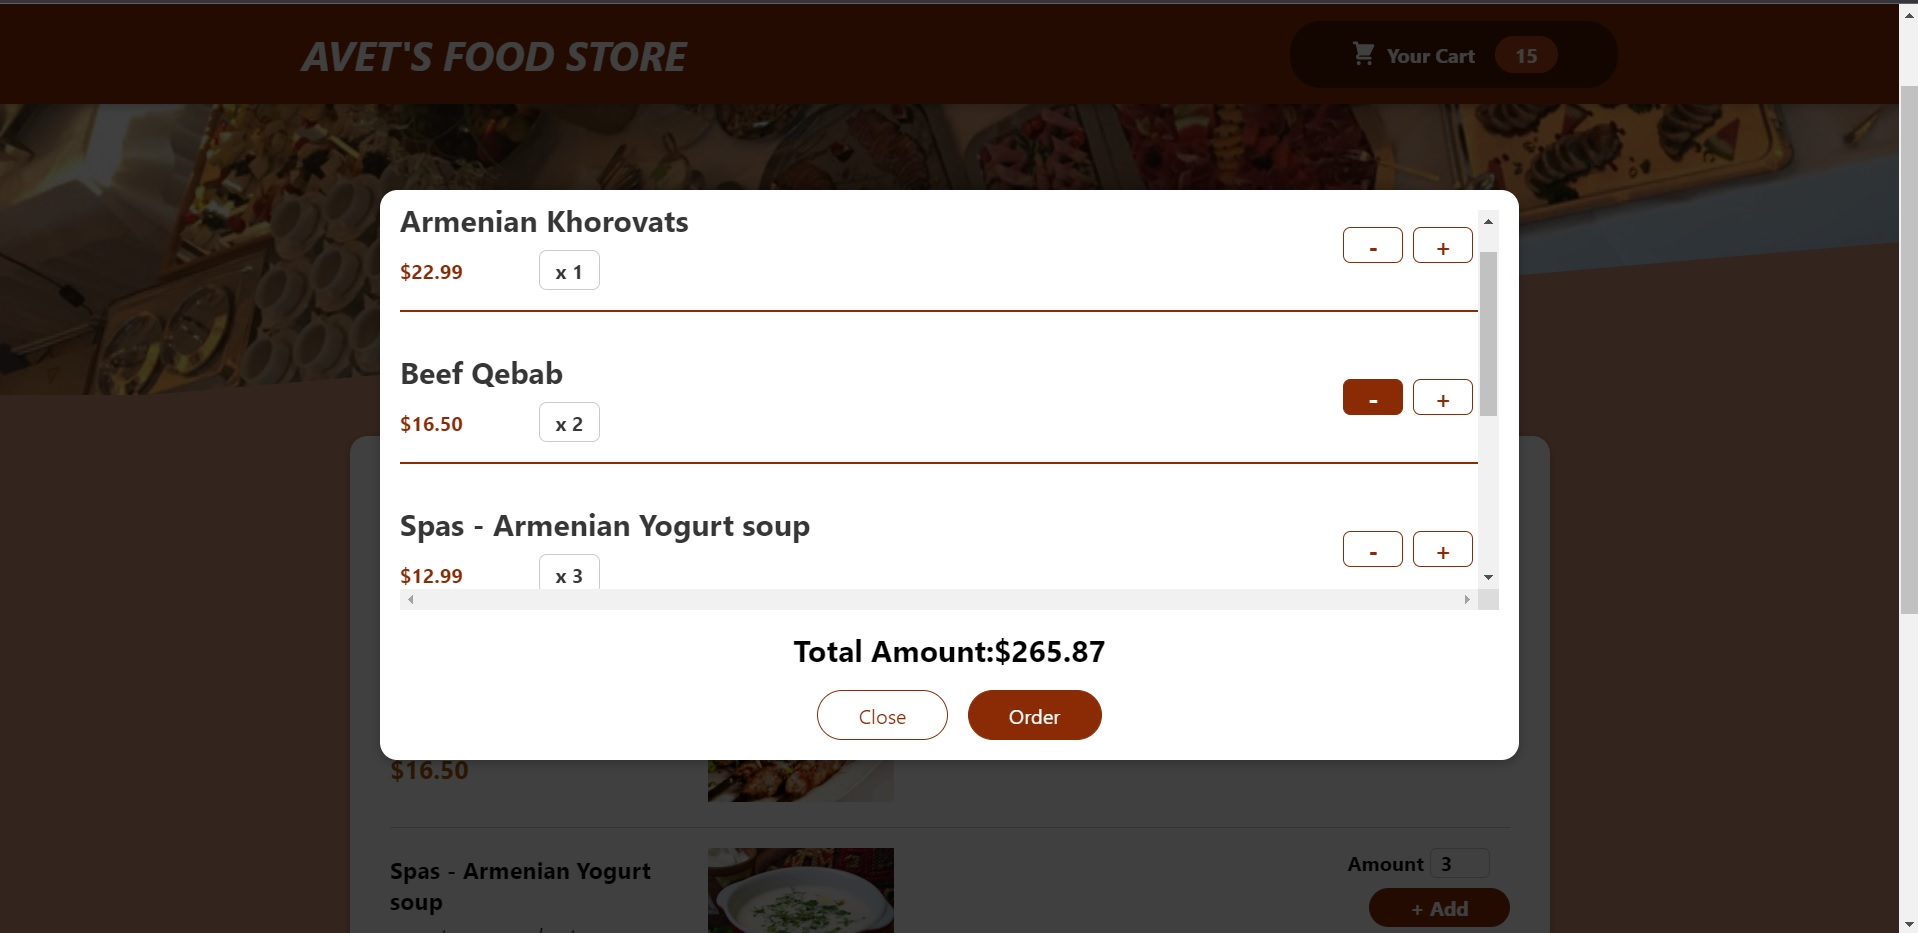
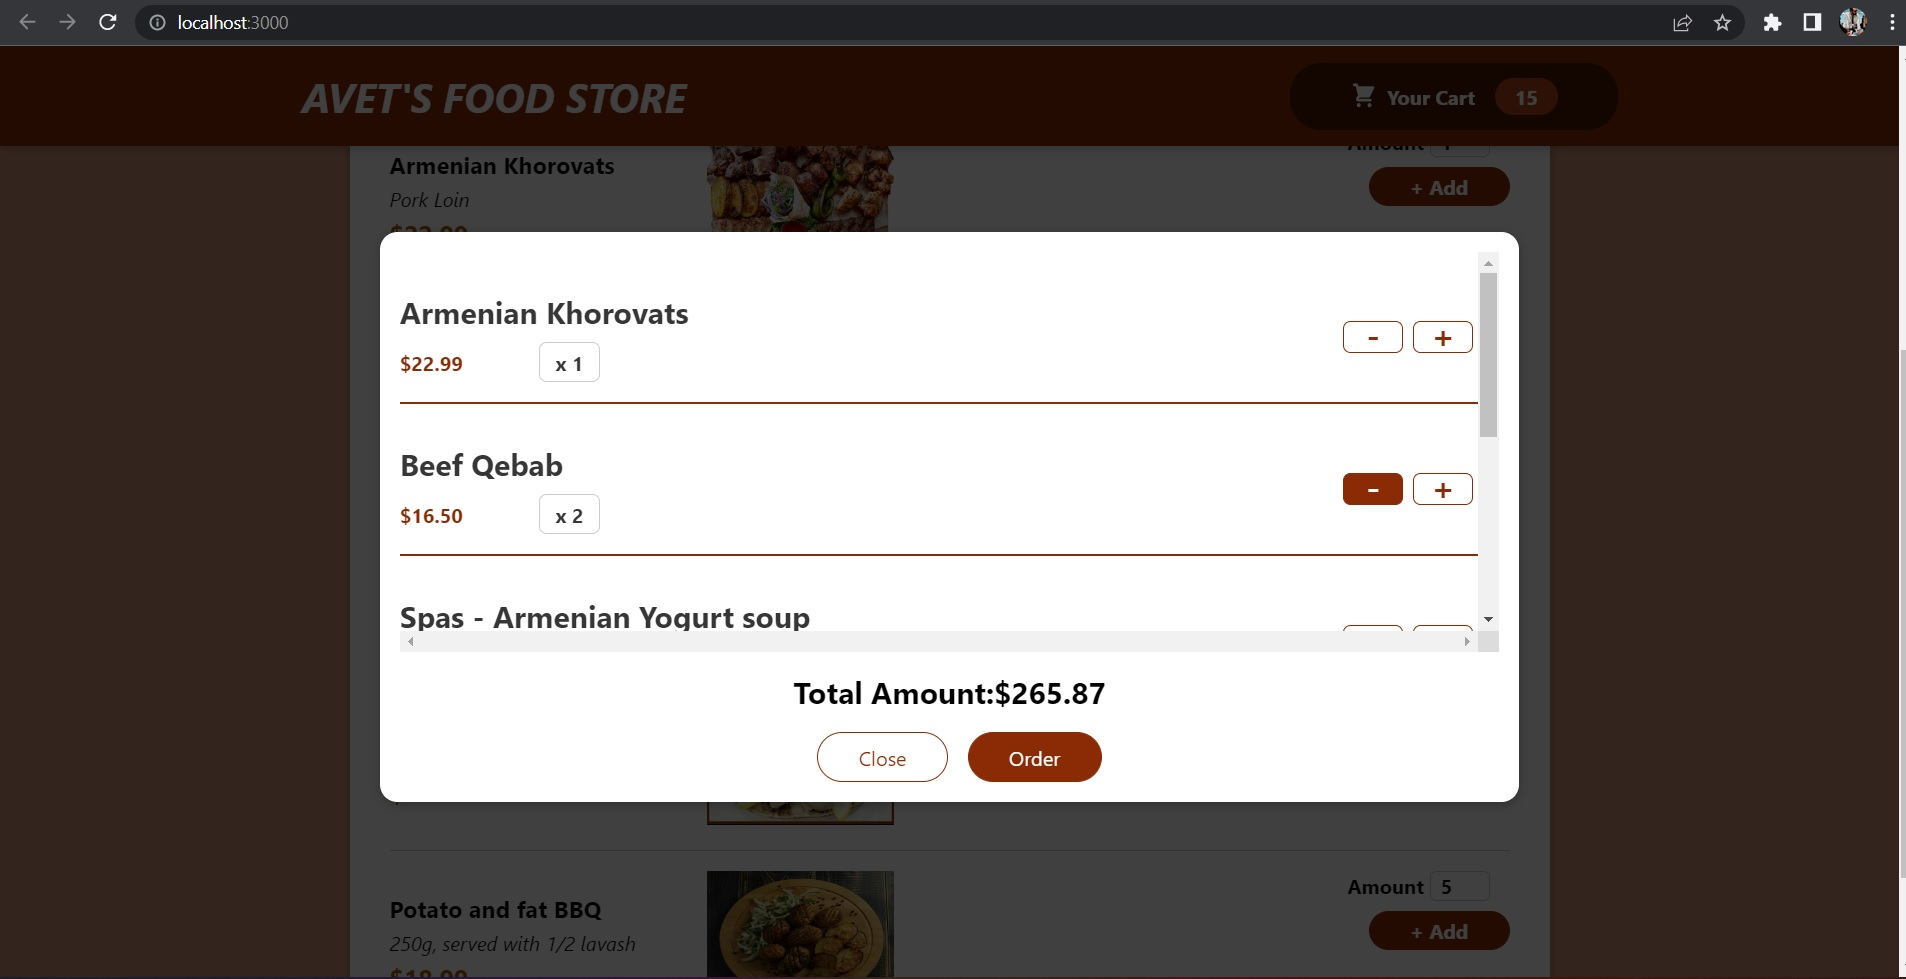
fix: update some styles

diff --git a/src/Components/Cart/CartItem.css b/src/Components/Cart/CartItem.css
@@ -30,22 +30,21 @@
   padding: 4px 12px;
   border-radius: 6px;
   color: rgb(54, 54, 54);
+  display: flex;
+  justify-content: center;
+  align-items: center;
 }
 
 .cart-actions {
   display: flex;
-  flex-direction: column;
-}
-
-@media (min-width: 768px) {
-  .cart-actions {
-    flex-direction: row;
-  }
+  justify-content: center;
+  align-items: center;
 }
 
 .cart-item button {
-  font: inherit;
+  box-sizing: border-box;
   font-weight: bold;
+  font-family: Verdana, Geneva, Tahoma, sans-serif;
   font-size: 20px;
   color: rgb(138, 43, 6);
   border: 1px solid rgb(138, 43, 6);
@@ -56,6 +55,9 @@
   cursor: pointer;
   margin-left: 16px;
   margin: 4px;
+  display: flex;
+  justify-content: center;
+  align-items: center;
 }
 
 .cart-item button:hover,

diff --git a/src/Components/Cart/CartItem.jsx b/src/Components/Cart/CartItem.jsx
@@ -14,8 +14,12 @@ export default function CartItem(props) {
         </div>
       </div>
       <div className="cart-actions">
-        <button onClick={props.onRemove}>-</button>
-        <button onClick={props.onAdd}>+</button>
+        <button onClick={props.onRemove} className="cart-item-button">
+          -
+        </button>
+        <button onClick={props.onAdd} className="cart-item-button">
+          +
+        </button>
       </div>
     </li>
   );
